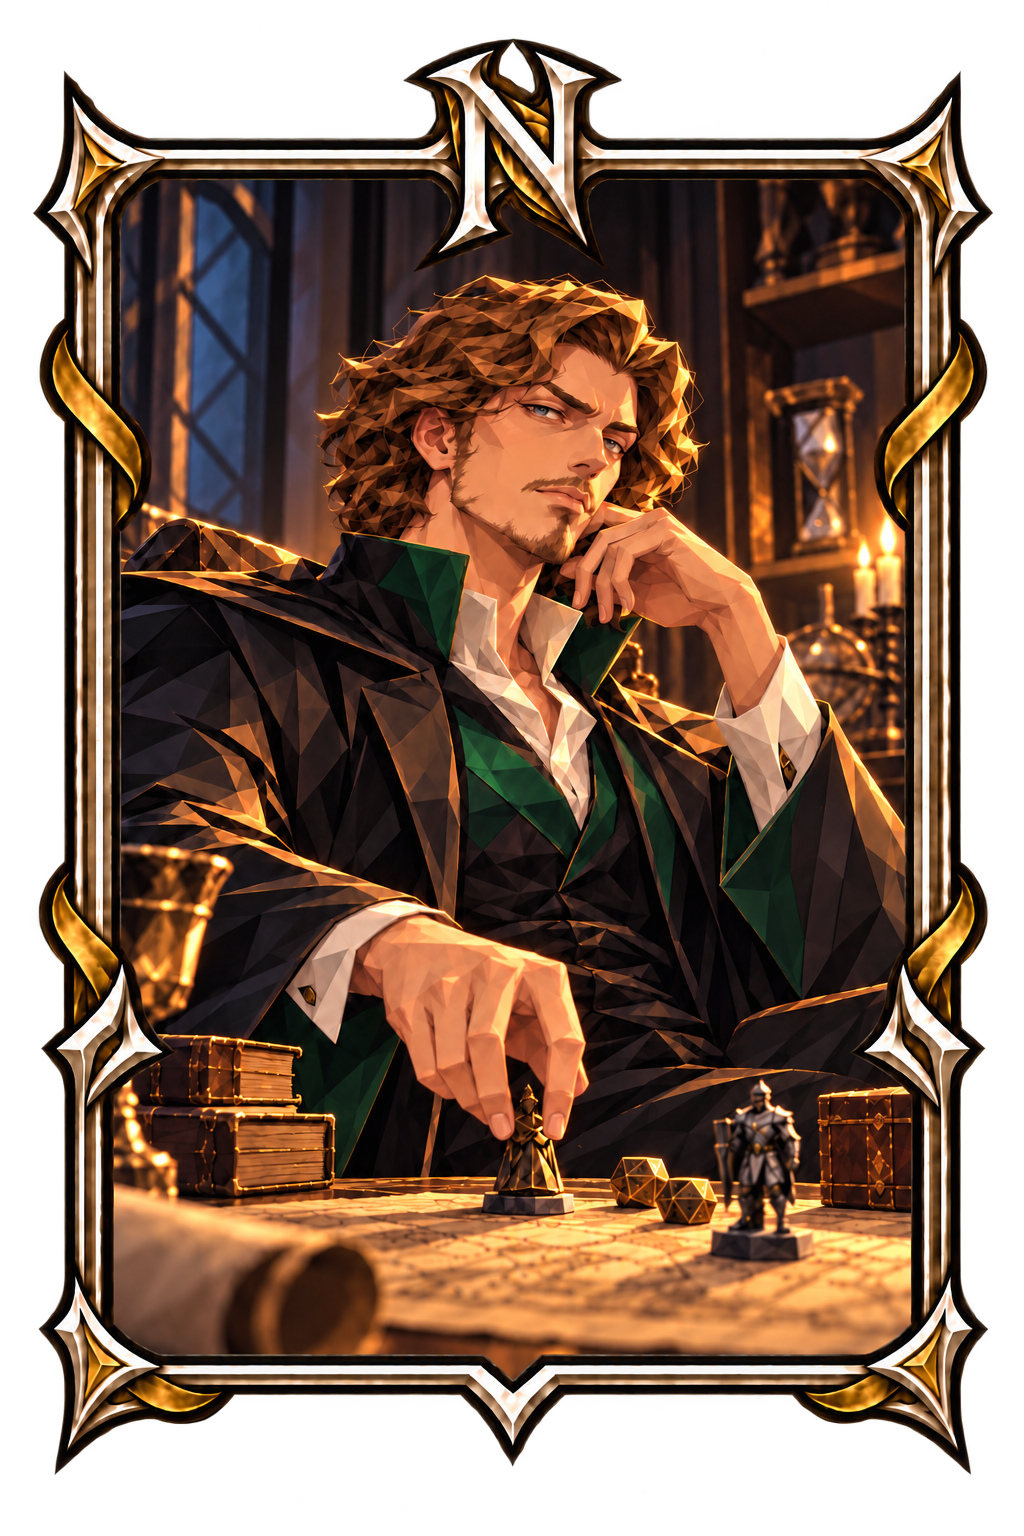
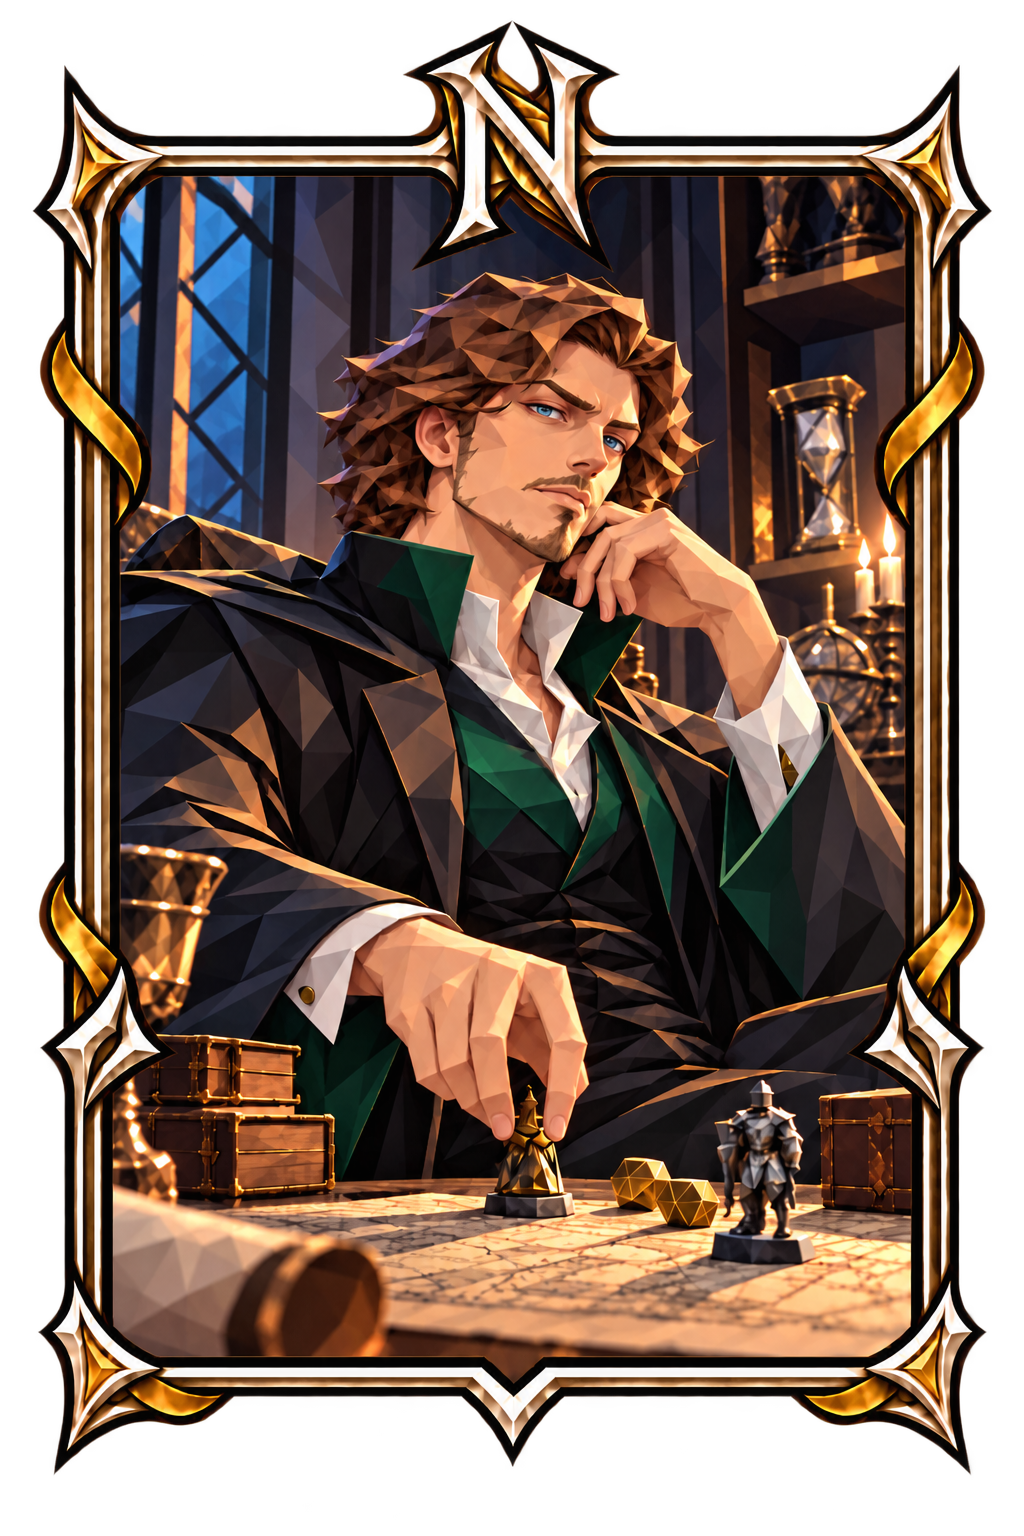
Description des modifications

diff --git a/CSS/jeu-cartes.css b/CSS/jeu-cartes.css
@@ -2052,20 +2052,22 @@ body.en-duel { overflow: hidden; padding: 0 !important; }
 
 
 /* =====================================================================
-   Le plateau de Nocthémar (img/Plateaux de carte/…, 1944 × 809) : une île flottante, fond transparent.
+   Le plateau de Nocthémar : une île flottante (fond transparent), qui change avec la SAISON RÉELLE
+   (img/Plateaux de carte/plateau-automne|hiver|printemps|ete.webp, 1672 × 941, même disposition).
+   La saison est posée sur <body> par JS/jeu-cartes.js (classe saison-…) ; ?saison=hiver la force.
    Tout y est placé en % de l'image (cqw = % de la largeur du plateau), mesuré au pixel :
    - les 10 emplacements peints : les troupes (5 en haut pour l'adversaire, 5 en bas pour toi) ;
      la rangée du bas est plus grande et plus espacée (perspective), d'où deux réglages
-   - la clairière en haut à gauche : le Grimoire et le Tombeau de l'adversaire
-   - la clairière en bas à droite : les tiens
-   - le cercle de pierre au centre : le dé
+   - en haut à gauche : le Grimoire et le Tombeau de l'adversaire
+   - en bas à droite : les tiens
+   - le cercle de pierre « N » au centre : le dé
    ===================================================================== */
 .page-jeu .tg-bord {
   container-type: inline-size;
-  aspect-ratio: 1944 / 809;
+  aspect-ratio: 1672 / 941;
   padding: 0;
   border-radius: 0;
-  background: url("../img/Plateaux%20de%20carte/Plateau%20de%20bataille%20gothique%20au%20cr%C3%A9puscule.png") center / 100% 100% no-repeat;
+  background: url("../img/Plateaux%20de%20carte/plateau-automne.webp") center / 100% 100% no-repeat;
   box-shadow: none;
   transform: none;
   filter: drop-shadow(0 30px 40px rgba(0,0,0,.7));
@@ -2082,6 +2084,11 @@ body.en-duel { overflow: hidden; padding: 0 !important; }
   box-shadow: none;
 }
 .en-duel .tg-perspective { perspective: none; }
+/* Plateau de la saison (automne par défaut) */
+.page-jeu.saison-hiver     .tg-bord { background-image: url("../img/Plateaux%20de%20carte/plateau-hiver.webp"); }
+.page-jeu.saison-printemps .tg-bord { background-image: url("../img/Plateaux%20de%20carte/plateau-printemps.webp"); }
+.page-jeu.saison-ete       .tg-bord { background-image: url("../img/Plateaux%20de%20carte/plateau-ete.webp"); }
+.page-jeu.saison-automne   .tg-bord { background-image: url("../img/Plateaux%20de%20carte/plateau-automne.webp"); }
 
 /* Les troupes, sur les emplacements peints */
 .page-jeu .tg-bord .terrain {
@@ -2092,19 +2099,19 @@ body.en-duel { overflow: hidden; padding: 0 !important; }
   align-items: center;
   gap: 0;
 }
-/* Une colonne par emplacement, centrée sur son cadre peint (centres mesurés : 168 px d'écart en haut, 177 en bas).
-   Les cases ont été retouchées au format des cartes (2 x 3 : 92 x 137 px en haut, 104 x 155 px en bas ;
-   original : « … (cases larges, original).png ») : la carte recouvre le fond et le cadre. Les images
-   des vraies cartes ont ~3,5 % de marge transparente autour de leur cadre : on les agrandit d'autant */
-.page-jeu .tg-bord #terrain-adverse { left: 28.43%; width: 43.34%; top: 20.89%; height: 16.93%; --unite-l: 5.1cqw; }
-.page-jeu .tg-bord #terrain-joueur  { left: 27.40%; width: 45.42%; top: 59.33%; height: 19.16%; --unite-l: 5.75cqw; }
+/* Une colonne par emplacement, centrée sur son cadre peint (centres mesurés : 144 px d'écart en haut, 151 en bas).
+   Les cases sont au format des cartes (≈ 88 × 125 px en haut, 90 × 134 px en bas) : la carte recouvre
+   le fond et le cadre. Les images des vraies cartes ont ~3,5 % de marge transparente autour de leur
+   cadre : on les agrandit d'autant (plus bas, .dc-face--hote) */
+.page-jeu .tg-bord #terrain-adverse { left: 28.30%; width: 43.03%; top: 24.76%; height: 13.28%; --unite-l: 5.9cqw; }
+.page-jeu .tg-bord #terrain-joueur  { left: 27.31%; width: 45.12%; top: 58.24%; height: 14.24%; --unite-l: 6.3cqw; }
 .page-jeu .tg-bord .dc-unite,
 .page-jeu .tg-bord .dc-place { width: var(--unite-l); }
 .page-jeu .tg-bord .dc-place { opacity: 0; }   /* emplacement vide : le cadre peint suffit */
 
 /* Le dé dans le cercle de pierre, la consigne juste dessous */
 .page-jeu .tg-bord .centre {
-  position: absolute; left: 49.9%; top: 47.4%;
+  position: absolute; left: 50%; top: 46.8%;
   translate: -50% -50%;
   margin: 0;
   justify-content: center;
@@ -2112,7 +2119,7 @@ body.en-duel { overflow: hidden; padding: 0 !important; }
 .page-jeu .tg-bord .centre::before,
 .page-jeu .tg-bord .centre::after { content: none; }
 .page-jeu .tg-tapis > .centre__consigne {
-  position: absolute; left: 49.9%; top: 55.2%;
+  position: absolute; left: 50%; top: 54.4%;
   translate: -50% 0;
   width: 30%;
   font-size: clamp(.62rem, .95cqw, .85rem);
@@ -2129,8 +2136,8 @@ body.en-duel { overflow: hidden; padding: 0 !important; }
   background: url("../img/Cartes/Verso-Carte.webp") center / contain no-repeat;
   filter: drop-shadow(.25cqw .25cqw 0 #2a1a14) drop-shadow(.25cqw .25cqw 0 #3a261c) drop-shadow(0 .6cqw .8cqw rgba(0,0,0,.7));
 }
-.plateau-pile--adverse { left: 16.6%; top: 17%; }
-.plateau-pile--joueur  { left: 81.6%; top: 57%; }
+.plateau-pile--adverse { left: 17.4%; top: 24.6%; }
+.plateau-pile--joueur  { left: 77.9%; top: 58.4%; }
 .plateau-pile b {
   translate: 0 50%;
   display: grid; place-items: center;
@@ -2153,8 +2160,8 @@ body.en-duel { overflow: hidden; padding: 0 !important; }
   cursor: pointer;
 }
 /* emplacement du Tombeau : un cadre de carte sombre, la dernière carte posée dessus */
-.page-jeu .tg-bord .tombeau--adverse { left: 22.2%; top: 17%; }
-.page-jeu .tg-bord .tombeau--joueur  { left: 75.6%; top: 57%; }
+.page-jeu .tg-bord .tombeau--adverse { left: 22.9%; top: 24.6%; }
+.page-jeu .tg-bord .tombeau--joueur  { left: 72.4%; top: 58.4%; }
 .page-jeu .tg-bord .tombeau--adverse, .page-jeu .tg-bord .tombeau--joueur {
   width: 4.2cqw; aspect-ratio: 2 / 3;
   border-radius: .5cqw;
@@ -2184,7 +2191,7 @@ body.en-duel { overflow: hidden; padding: 0 !important; }
 /* =====================================================================
    Disposition du duel sur ordinateur : un grand plateau au milieu
    - le plateau prend toute la place libre (largeur moins les boutons à droite,
-     hauteur moins la barre de l'adversaire et la main), en gardant sa forme 1944 / 809
+     hauteur moins la barre de l'adversaire et la main), en gardant sa forme 1672 / 941
    - ton énergie et ton héros : une plaque en bas à gauche de l'écran
    - la main : des cartes plus petites, qui grossissent au survol
    (vient en dernier : ces règles l'emportent)
@@ -2196,8 +2203,10 @@ body.en-duel { overflow: hidden; padding: 0 !important; }
 @media (min-width: 1101px) {
   .en-duel .tg-table { width: 100%; }
   .en-duel .tg-perspective {
-    width: min(calc(100vw - 2 * clamp(150px, 11vw, 190px)), calc((100vh - 13vh - var(--carte-l-main) * 1.5 - 40px) * 1944 / 809));
-    margin: 0 auto;
+    /* Grand plateau : ses bords transparents (ciel, rochers du dessous) passent sous la barre
+       de l'adversaire et sous la main, d'où les marges négatives */
+    width: min(calc(100vw - 2 * clamp(130px, 9vw, 170px)), calc((100vh - 2vh) * 1672 / 941));
+    margin: -8vh auto -17vh;
   }
   .en-duel .table__plateau { --carte-l-main: min(6.2vw, 11.5vh); }
 
@@ -2223,4 +2232,63 @@ body.en-duel { overflow: hidden; padding: 0 !important; }
 
 /* Vraies cartes posées sur le plateau : l'image est agrandie de sa marge transparente (~3,5 % de chaque côté),
    pour que le cadre de la carte remplisse la case comme une troupe du Codex */
-.page-jeu .tg-bord .dc-unite .dc-face--hote { scale: 1.075; }
+/* (ancien agrandissement des vraies cartes : remplacé par le calage « cadre sur cadre » plus bas) */
+
+
+/* =====================================================================
+   Cartes posées sur le plateau : le cadre de la carte se pose EXACTEMENT sur le cadre peint de la case,
+   le « N » de la carte dépasse au-dessus.
+   Mesures (plateaux de saison 1672 × 941) : cadre extérieur d'une case = 128 × 173 px en haut,
+   136 × 180 px en bas. Cadre d'une carte (image 1024 × 1536) = 87,4 % × 81,7 % de l'image, centré.
+   Les cases sont plus trapues que les cartes : la carte est un peu élargie pour tomber trait sur trait.
+   ===================================================================== */
+.page-jeu .tg-bord #terrain-adverse { left: 28.29%; width: 43.03%; top: 20.2%; height: 23.38%; --unite-l: 8.76cqw; --unite-ratio: .744; }
+.page-jeu .tg-bord #terrain-joueur  { left: 27.31%; width: 45.12%; top: 53.3%; height: 24.44%; --unite-l: 9.31cqw; --unite-ratio: .79; }
+.page-jeu .tg-bord .dc-unite,
+.page-jeu .tg-bord .dc-place { width: var(--unite-l); aspect-ratio: var(--unite-ratio); }
+.page-jeu .tg-bord .dc-unite .dc-face--image { object-fit: fill; }
+/* les pastilles attaque / vie se posent sur le bas du cadre */
+.page-jeu .tg-bord .dc-unite .dc-stat { bottom: 8.5%; }
+.page-jeu .tg-bord .dc-unite .dc-stat--a { left: 9%; }
+.page-jeu .tg-bord .dc-unite .dc-stat--h { right: 9%; }
+
+
+/* =====================================================================
+   Cartes du Codex (troupes, sorts, objets de pouvoir) : même cadre que les nouvelles cartes
+   (img/Cartes/Cadre-codex.webp argenté, Cadre-objet.webp doré, tirés de l'illustration d'une vraie carte).
+   Fenêtre de l'illustration et panneau noir placés en % de l'image (1024 × 1536).
+   ===================================================================== */
+.dc-face--codex {
+  clip-path: none;
+  background: none;
+  container-type: inline-size;
+}
+.dc-face--codex .dc-face__art {
+  position: absolute; left: 11.6%; top: 10.2%; width: 76.4%; height: 58.4%;
+  overflow: hidden;
+  border-radius: 4% / 3%;
+  background: #0b0e14;
+}
+.dc-face--codex.rar-sort .dc-face__art { background: radial-gradient(circle at 50% 45%, #2b3a63, #0b0e1a 75%); }
+.dc-face--codex .dc-face__art--objet {
+  display: grid; place-items: center;
+  background: radial-gradient(circle at 50% 55%, rgba(255,200,120,.35), transparent 65%), linear-gradient(180deg, #2a2030, #120e16);
+}
+.dc-face--codex .dc-face__art--objet img { width: 82%; height: 82%; object-fit: contain; filter: drop-shadow(0 4px 6px rgba(0,0,0,.7)); }
+.dc-face__cadre-img { position: absolute; inset: 0; width: 100%; height: 100%; pointer-events: none; }
+.dc-face--codex .dc-face__panneau {
+  position: absolute; left: 12%; right: 12%; top: 71.5%; height: 17%;
+  margin: 0; padding: 0 2%;
+  display: flex; flex-direction: column; align-items: center; justify-content: center; gap: 1.5cqw;
+  background: none; box-shadow: none; border-radius: 0;
+}
+.dc-face--codex .dc-face__nom { font-size: 7.6cqw; color: #f2eee6; }
+.dc-face--codex .dc-face__texte {
+  font-size: 5.8cqw; line-height: 1.15; color: #bcb2a4;
+  display: -webkit-box; -webkit-line-clamp: 3; -webkit-box-orient: vertical;
+}
+.dc-face--codex.rar-objet .dc-face__nom { font-size: 7cqw; color: #f6d995; }
+.dc-face--codex.rar-objet .dc-face__texte { font-size: 5.4cqw; }
+.dc-unite .dc-face--codex .dc-face__nom { font-size: 9cqw; }
+/* reflet : sur la fenêtre et le panneau, sans déborder du cadre */
+.dc-reflet--codex { clip-path: inset(6% 7% 8% 7%); }

diff --git a/JS/jeu-cartes-attaques.js b/JS/jeu-cartes-attaques.js
@@ -60,6 +60,7 @@ const CIERGE = ['#fff3c4', '#ffe08a', '#ffffff'];
 const OMBRE = ['#3a2a4a', '#1a1222', '#6e4a8a'];
 const ACIER = ['#c5cad3', '#8a919c', '#ffffff'];
 const GLU = ['#8ee07a', '#4fae3c', '#c8f5b0'];
+const GIVRE = ['#ffffff', '#dff4ff', '#9fd2f0'];
 
 const VEINES_FX = {
   sang: {
@@ -359,6 +360,65 @@ const ATTAQUES = {
       voile('rgba(70,95,80,.45)', 900);
       particules(cib, { n: 26, couleurs: ['#9fb3a0', '#5f7a6a', '#c3d1c4'], vitesse: 35, monte: 40, gravite: -15, rond: true, depuis: 'surface', taille: [10, 20], duree: 1500 });
       jouerSon('eau', 0.2);
+    },
+  },
+  // Fée des Neiges (version bleue)
+  'Souffle de Givre': {
+    charge: aura(GIVRE),
+    async coup(att, cib) {
+      jouerSon('eau');
+      await salve(att, cib, 4, { forme: '❄', couleur: '#dff4ff', taille: 22, duree: 420, arc: 35, rotation: 180 }, 60);
+      flash(cib, 'rgba(200,235,255,.95)', 2.2);
+      onde(cib, '#bfe6ff', 2, 600);
+      particules(cib, { n: 20, couleurs: GIVRE, vitesse: 110, gravite: 30, taille: [3, 7] });
+    },
+  },
+  'Berceuse des Neiges': {
+    charge: aura(GIVRE),
+    async coup(att, cib) {
+      jouerSon('reve');
+      await projectile(att, cib, { forme: '❄', couleur: '#e8f6ff', taille: 32, duree: 620, arc: 70, rotation: 360 });
+      symbole(cib, 'z Z', { couleur: '#dff4ff', taille: 38, duree: 1100, monte: 50 });
+      // la neige tombe doucement sur la cible
+      particules(cib, { n: 24, couleurs: ['#ffffff', '#dff4ff', '#bfe6ff'], vitesse: 25, monte: -40, gravite: 90, rond: true, depuis: 'surface', duree: 1500, taille: [3, 6] });
+      voile('rgba(190,225,255,.3)', 800);
+    },
+  },
+  // Fée des Neiges dorée
+  'Larmes de Cristal': {
+    charge: (att) => { aura([...GIVRE, '#f6d995'])(att); symbole(att, '💧', { taille: 30, duree: 900, monte: 20 }); },
+    async coup(att, cib) {
+      jouerSon('magie');
+      await salve(att, cib, 5, { forme: '◆', couleur: '#e8f6ff', taille: 18, duree: 400, arc: 45, rotation: 90 }, 55);
+      jouerSon('acier');
+      flash(cib, 'rgba(230,245,255,.95)', 2.6);
+      particules(cib, { n: 30, couleurs: ['#ffffff', '#dff4ff', '#f6d995'], vitesse: 200, gravite: 70, taille: [3, 8] });
+      griffes(cib, { n: 3, couleur: '#dff4ff', angle: -60, ecart: 14, epaisseur: 4 });
+    },
+  },
+  'Blizzard d\'Erynedhal': {
+    charge: aura([...GIVRE, '#f6d995']),
+    async coup(att, cib) {
+      jouerSon('tonnerre');
+      jouerSon('eau', 0.1);
+      voile('rgba(220,240,255,.55)', 1200);
+      secousseEcran(10, 700);
+      // une tempête de flocons balaie tout l'écran vers la cible
+      const r = cib.getBoundingClientRect();
+      const vent = document.createElement('span');
+      Object.assign(vent.style, { position: 'fixed', left: '0px', top: `${r.top + r.height / 2}px`, width: '1px', height: '1px' });
+      document.body.appendChild(vent);
+      const rafales = [];
+      for (let i = 0; i < 7; i++) {
+        vent.style.top = `${r.top + r.height / 2 + (i - 3) * 40}px`;
+        rafales.push(projectile(vent, cib, { forme: '❄', couleur: '#ffffff', taille: 20 + (i % 3) * 8, duree: 520, arc: 15, rotation: 540 }));
+        await pause(45);
+      }
+      await Promise.all(rafales);
+      vent.remove();
+      symbole(cib, '❄', { couleur: '#f6d995', taille: 84, duree: 1000 });
+      onde(cib, '#ffffff', 3, 800);
+      particules(cib, { n: 34, couleurs: ['#ffffff', '#dff4ff', '#f6d995'], vitesse: 230, gravite: 40, taille: [3, 9] });
     },
   },
   // Veilleuse Écarlate

diff --git a/JS/jeu-cartes-arene.js b/JS/jeu-cartes-arene.js
@@ -86,16 +86,17 @@ function faceCarte(c) {
       <img class="dc-face dc-face--image" src="${url}" alt="" draggable="false" loading="lazy">
       ${htmlInfos(c.carte)}
     </span>`;
+  // Carte du Codex : le même cadre que les vraies cartes (img/Cartes/Cadre-codex.webp, argenté ;
+  // Cadre-objet.webp, doré, pour les objets de pouvoir), l'illustration dans la fenêtre, le texte dans le panneau noir
   return `
     <span class="dc-face dc-face--codex rar-${c.image ? 'objet' : rarete(c)}">
-      <span class="dc-face__cadre">
-        <span class="dc-face__art${c.image ? ' dc-face__art--objet' : ''}">${c.image
-          ? `<img src="${esc(new URL(c.image, SITE_ROOT))}" alt="" draggable="false" loading="lazy">`
-          : artSVG(c)}</span>
-        <span class="dc-face__panneau">
-          <span class="dc-face__nom">${esc(c.n)}</span>
-          <span class="dc-face__texte">${esc(texteCarte(c))}</span>
-        </span>
+      <span class="dc-face__art${c.image ? ' dc-face__art--objet' : ''}">${c.image
+        ? `<img src="${esc(new URL(c.image, SITE_ROOT))}" alt="" draggable="false" loading="lazy">`
+        : artSVG(c)}</span>
+      <img class="dc-face__cadre-img" src="img/Cartes/${c.image ? 'Cadre-objet' : 'Cadre-codex'}.webp" alt="" draggable="false">
+      <span class="dc-face__panneau">
+        <span class="dc-face__nom">${esc(c.n)}</span>
+        <span class="dc-face__texte">${esc(texteCarte(c))}</span>
       </span>
     </span>`;
 }

diff --git a/JS/jeu-cartes.js b/JS/jeu-cartes.js
@@ -34,6 +34,13 @@ import { jouerSon, basculerMuet, estMuet, lireVolume, reglerVolume } from './jeu
 import { ouvrirSalon, nouveauCode, codeValide, TAILLE_SALON } from './jeu-cartes-ligne.js';
 
 const NOM_ADVERSAIRE = "L'Ombre du Codex";
+
+// Le plateau suit la saison réelle (CSS/jeu-cartes.css : .saison-…) :
+// hiver de décembre à février, printemps de mars à mai, été de juin à août, automne de septembre à novembre.
+// Pour tester un autre plateau : jeu-cartes.html?saison=hiver (printemps, ete, automne)
+const SAISON_DU_MOIS = ['hiver', 'hiver', 'printemps', 'printemps', 'printemps', 'ete', 'ete', 'ete', 'automne', 'automne', 'automne', 'hiver'];
+const saisonForcee = new URLSearchParams(location.search).get('saison');
+document.body.classList.add(`saison-${SAISON_DU_MOIS.includes(saisonForcee) ? saisonForcee : SAISON_DU_MOIS[new Date().getMonth()]}`);
 const CLE_SALON_EN_ATTENTE = 'duel-salon';   // salon à rejoindre après la connexion Discord
 
 let mode = 'solo';          // onglet de l'accueil : 'solo' | 'ligne'

diff --git a/LISEZ-MOI.md b/LISEZ-MOI.md
@@ -36,6 +36,8 @@ mêmes cartes, mêmes pièces, même progression.
 - `JS/embers.js` : les particules
 - `CSS/` : les styles (ceux du site dont le jeu a besoin, et ceux du jeu)
 - `img/` : cartes, objets de pouvoir, fonds, plateaux, carte du mode Histoire, logo
+- **Plateau de saison** : le plateau du duel change avec la saison réelle (`img/Plateaux de carte/plateau-automne|hiver|printemps|ete.webp`) ;
+  pour en voir un autre : `jeu-cartes.html?saison=hiver`
 - `SQL/` : les tables et fonctions Supabase des cartes et du mode Histoire
 
 ## À faire pour le mettre en ligne
